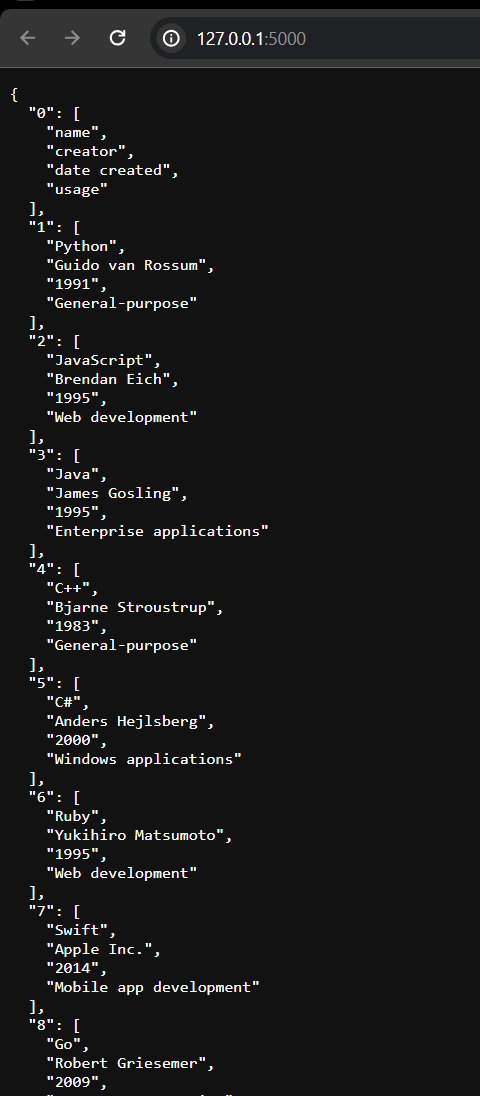
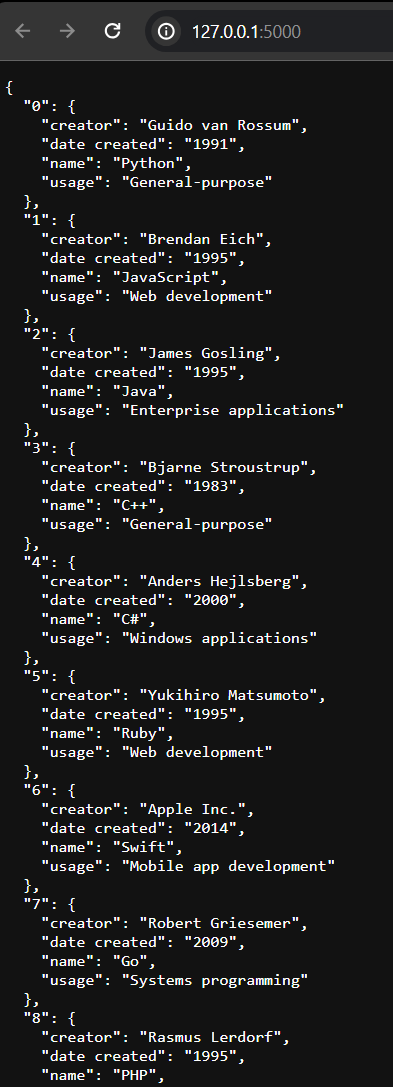
Add files via upload

diff --git a/day-13/Submission/main.py b/day-13/Submission/main.py
@@ -9,7 +9,7 @@ def read_csv(filename):
     content = {}
     i = 0
     with open(filename, 'r') as file:
-        reader = csv.reader(file)
+        reader = csv.DictReader(file)
         for line in reader:
             content[i] = line
             i += 1
